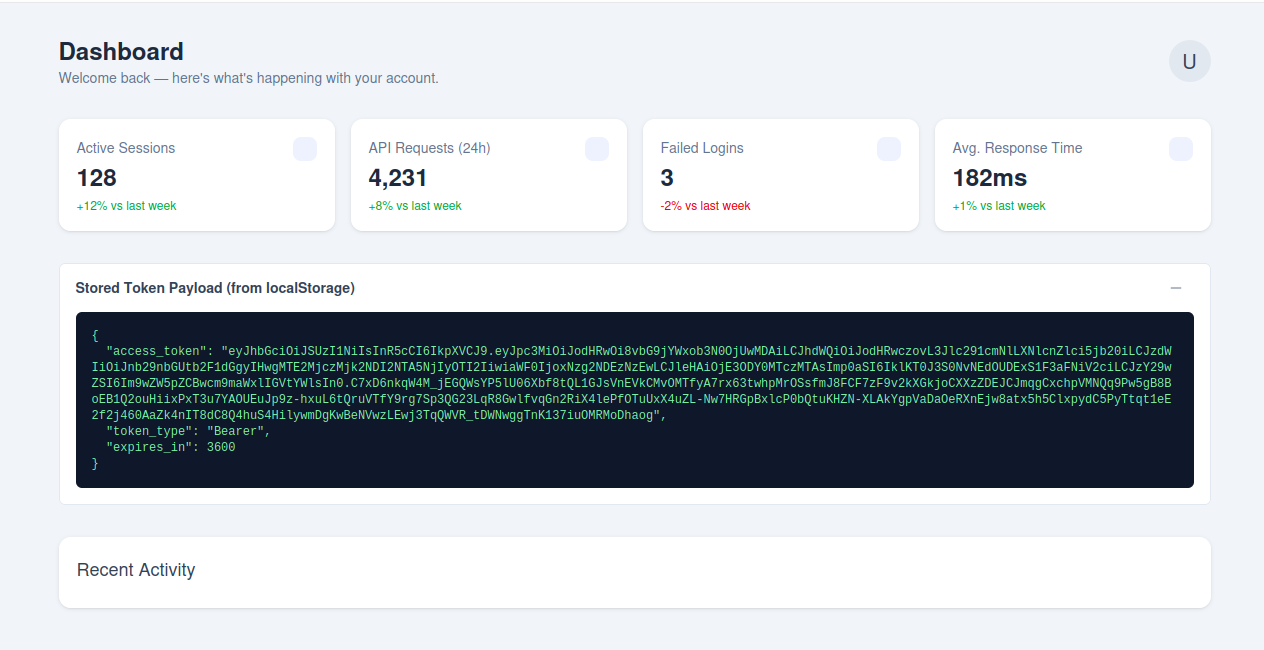
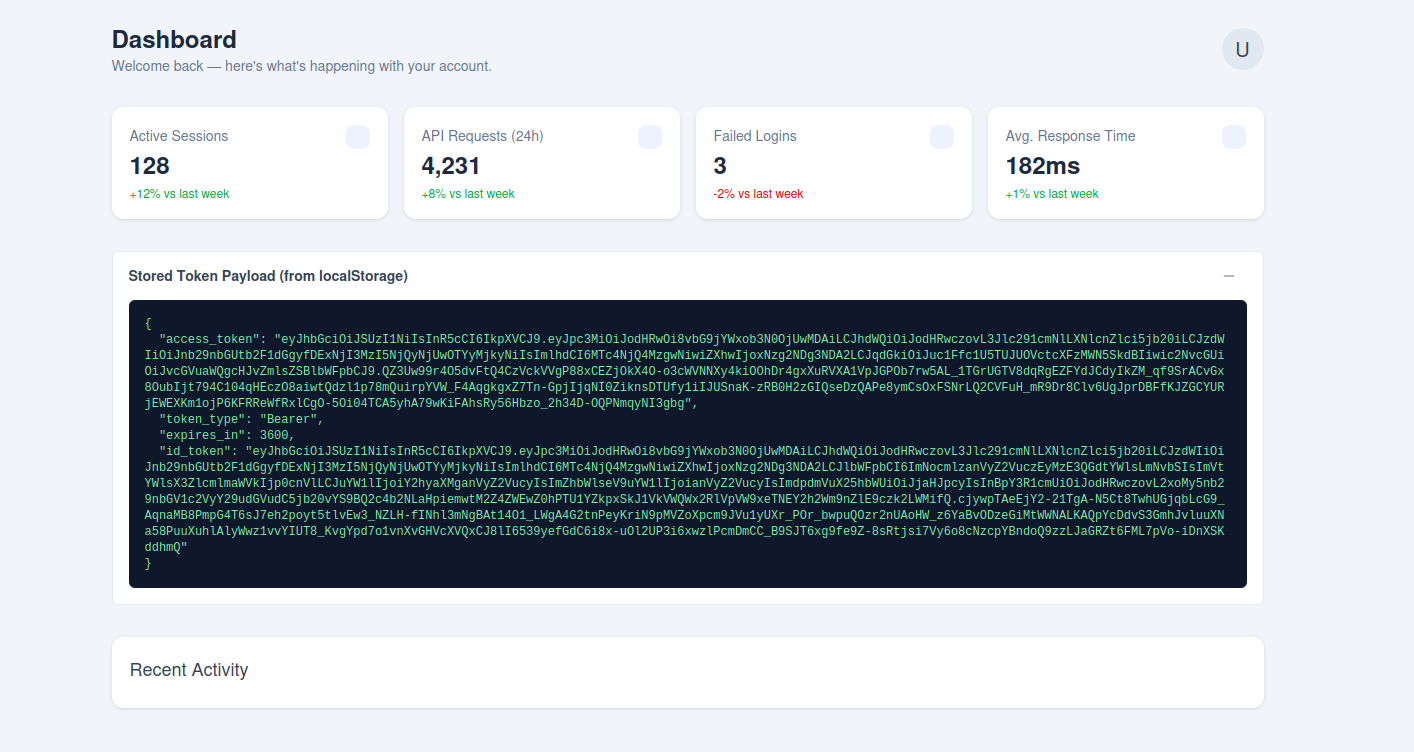
Add support for dynamic authorization url. create nonce. retrieve nonce on callback. send code_verifier. add returnTo parameter to route internally to dashboard. Display idToken. update readme

diff --git a/src/app/pages/home/home.ts b/src/app/pages/home/home.ts
@@ -1,17 +1,89 @@
-import { Component } from '@angular/core';
+import { ChangeDetectorRef, Component } from '@angular/core';
+import { FormsModule } from '@angular/forms';
+import { ButtonModule } from 'primeng/button';
+import { CardModule } from 'primeng/card';
+import { InputTextModule } from 'primeng/inputtext';
+import { SelectModule } from 'primeng/select';
 
-const AUTHORIZE_URL =
-  'http://localhost:5000/authorize?response_type=code&client_id=client_sdlkfj234kdjf2l34&redirect_uri=http%3A%2F%2Flocalhost%3A4200%2Fcallback&scope=openid%20profile%20email&state=xyz123&connection=google-oauth2&code_challenge=2fb614632cfc24212e26cdd8df1ead826e19165d280efa035933771139c7b2ef&code_challenge_method=S256&audience=https://resource-server.com';
+const AUTHORIZE_BASE_URL = 'http://localhost:5000/authorize';
+
+const STATIC_PARAMS = {
+  response_type: 'code',
+  client_id: 'client_sdlkfj234kdjf2l34',
+  redirect_uri: 'http://localhost:4200/callback',
+  code_challenge_method: 'S256'
+};
+
+const CONNECTIONS = ['google-oauth2', 'Username-Password-Authentication', 'facebook', 'github'];
+
+function randomOpaqueString(length = 32): string {
+  const bytes = new Uint8Array(length);
+  crypto.getRandomValues(bytes);
+  return Array.from(bytes, (b) => b.toString(16).padStart(2, '0')).join('');
+}
+
+function randomLetterString(length: number): string {
+  const alphabet = 'ABCDEFGHIJKLMNOPQRSTUVWXYZabcdefghijklmnopqrstuvwxyz';
+  const bytes = new Uint32Array(length);
+  crypto.getRandomValues(bytes);
+  return Array.from(bytes, (b) => alphabet[b % alphabet.length]).join('');
+}
+
+async function sha256Hex(value: string): Promise<string> {
+  const digest = await crypto.subtle.digest('SHA-256', new TextEncoder().encode(value));
+  return Array.from(new Uint8Array(digest), (b) => b.toString(16).padStart(2, '0')).join('');
+}
 
 @Component({
   selector: 'app-home',
   standalone: true,
-  imports: [],
+  imports: [FormsModule, ButtonModule, CardModule, InputTextModule, SelectModule],
   templateUrl: './home.html',
   styleUrl: './home.css'
 })
 export class Home {
+  connections = CONNECTIONS;
+
+  scope = 'openid profile email';
+  audience = 'https://resource-server.com';
+  connection = 'google-oauth2';
+  state = '';
+  codeChallenge = '';
+
+  private codeVerifier = '';
+
+  constructor(private cdr: ChangeDetectorRef) {}
+
+  get authorizeUrl(): string {
+    const params: [string, string][] = [
+      ['response_type', STATIC_PARAMS.response_type],
+      ['client_id', STATIC_PARAMS.client_id],
+      ['redirect_uri', STATIC_PARAMS.redirect_uri],
+      ['scope', this.scope],
+      ['state', this.state],
+      ['connection', this.connection],
+      ['code_challenge', this.codeChallenge],
+      ['code_challenge_method', STATIC_PARAMS.code_challenge_method],
+      ['audience', this.audience]
+    ];
+    return `${AUTHORIZE_BASE_URL}?${params.map(([key, value]) => `${key}=${encodeURIComponent(value)}`).join('&')}`;
+  }
+
+  generateState(): void {
+    this.state = randomOpaqueString();
+  }
+
+  async generateCodeChallenge(): Promise<void> {
+    const verifier = randomLetterString(10);
+    this.codeVerifier = verifier;
+    this.codeChallenge = await sha256Hex(verifier);
+    this.cdr.markForCheck();
+  }
+
   login(): void {
-    window.location.href = AUTHORIZE_URL;
+    if (this.state && this.codeVerifier) {
+      localStorage.setItem(this.state, JSON.stringify({ code_verifier: this.codeVerifier, returnTo: '/dashboard' }));
+    }
+    window.location.href = this.authorizeUrl;
   }
 }

diff --git a/src/app/pages/home/home.html b/src/app/pages/home/home.html
@@ -1,9 +1,45 @@
-<div class="flex min-h-screen items-center justify-center bg-slate-100">
-  <button
-    type="button"
-    (click)="login()"
-    class="rounded-lg bg-indigo-600 px-8 py-3 text-lg font-semibold text-white shadow-md transition hover:bg-indigo-700 active:bg-indigo-800"
-  >
-    Login
-  </button>
+<div class="min-h-screen bg-slate-100 px-6 py-10">
+  <div class="mx-auto max-w-2xl">
+    <p-card header="Authorize Request Builder" styleClass="shadow-sm">
+      <div class="flex flex-col gap-5">
+        <div class="flex flex-col gap-2">
+          <label for="scope" class="text-sm font-medium text-slate-600">scope</label>
+          <input id="scope" type="text" pInputText [(ngModel)]="scope" />
+        </div>
+
+        <div class="flex flex-col gap-2">
+          <label for="audience" class="text-sm font-medium text-slate-600">audience</label>
+          <input id="audience" type="text" pInputText [(ngModel)]="audience" />
+        </div>
+
+        <div class="flex flex-col gap-2">
+          <label for="connection" class="text-sm font-medium text-slate-600">connection</label>
+          <p-select inputId="connection" [options]="connections" [(ngModel)]="connection"></p-select>
+        </div>
+
+        <div class="flex flex-col gap-2">
+          <label for="state" class="text-sm font-medium text-slate-600">state</label>
+          <div class="flex gap-2">
+            <input id="state" type="text" pInputText class="flex-1" [(ngModel)]="state" />
+            <p-button label="Generate" severity="secondary" (onClick)="generateState()"></p-button>
+          </div>
+        </div>
+
+        <div class="flex flex-col gap-2">
+          <label for="code_challenge" class="text-sm font-medium text-slate-600">code_challenge</label>
+          <div class="flex gap-2">
+            <input id="code_challenge" type="text" pInputText class="flex-1" [(ngModel)]="codeChallenge" />
+            <p-button label="Generate" severity="secondary" (onClick)="generateCodeChallenge()"></p-button>
+          </div>
+        </div>
+
+        <div class="flex flex-col gap-2">
+          <label class="text-sm font-medium text-slate-600">AUTHORIZE_URL</label>
+          <p class="break-all rounded-md bg-slate-900 p-3 text-xs text-green-300">{{ authorizeUrl }}</p>
+        </div>
+
+        <p-button label="Login" styleClass="mt-2 w-full" (onClick)="login()"></p-button>
+      </div>
+    </p-card>
+  </div>
 </div>

diff --git a/src/app/pages/callback/callback.ts b/src/app/pages/callback/callback.ts
@@ -13,6 +13,8 @@ const TOKEN_STORAGE_KEY = 'oauth_token_response';
   styleUrl: './callback.css'
 })
 export class Callback implements OnInit {
+  error: string | null = null;
+
   constructor(
     private route: ActivatedRoute,
     private http: HttpClient,
@@ -23,19 +25,26 @@ export class Callback implements OnInit {
     const params = this.route.snapshot.queryParamMap;
     const code = params.get('code');
     const state = params.get('state');
-    const code_verifier = "liukangwins"
     const grant_type = "authorization_code"
     const client_id = "client_sdlkfj234kdjf2l34"
     const audience = "https://resource-server.com"
     const redirect_uri = "http://localhost:4200/callback"
 
-    // state is intentionally not validated — demo app, see CLAUDE.md
     console.log('Received callback with state:', state);
+
+    const nonceRaw = state ? localStorage.getItem(state) : null;
+    if (!nonceRaw) {
+      this.error = 'Invalid authorization';
+      return;
+    }
+
+    const { code_verifier, returnTo } = JSON.parse(nonceRaw);
+    localStorage.removeItem(state as string);
 
     this.http.post(TOKEN_URL, { code, code_verifier, grant_type, client_id, audience, redirect_uri }).subscribe({
       next: (response) => {
         localStorage.setItem(TOKEN_STORAGE_KEY, JSON.stringify(response));
-        this.router.navigate(['/dashboard']);
+        this.router.navigate([returnTo ?? '/']);
       },
       error: (err) => {
         console.error('Token exchange failed:', err);

diff --git a/src/app/pages/callback/callback.html b/src/app/pages/callback/callback.html
@@ -1,3 +1,7 @@
 <div class="flex min-h-screen items-center justify-center bg-slate-100">
-  <p class="text-slate-500">Signing you in&hellip;</p>
+  @if (error) {
+    <p class="text-red-600">{{ error }}</p>
+  } @else {
+    <p class="text-slate-500">Signing you in&hellip;</p>
+  }
 </div>

diff --git a/README.md b/README.md
@@ -21,10 +21,16 @@ Then open `http://localhost:4200`. This assumes the OAuth authorization server i
 
 ## Example Flow
 
-1. **Click Login** on the home page. This does a full-page redirect to the authorize endpoint (`http://localhost:5000/authorize?...`).
+1. **Generate a live authorize URL** on the home page, then click **Login** to continue authorization. This does a full-page redirect to the authorize endpoint (`http://localhost:5000/authorize?...`).
+
+   ![Authorize Request Builder generating a live authorize URL](docs/images/authorize_url.png)
+
 2. **Redirected to Google** — since the authorize request specifies `connection=google-oauth2`, the auth server hands off to Google's sign-in screen.
 3. **Sign in** with a Google account. Google redirects back to the auth server, which redirects the browser to `http://localhost:4200/callback?code=...&state=...`.
 4. The **Callback** page reads the `code` from the query params and exchanges it for a token via `POST http://localhost:5000/oauth/token`. On success, the full token response is saved to `localStorage` and the app navigates to `/dashboard`.
-5. On the **Dashboard**, copy the `access_token` value out of the "Stored Token Payload" panel and paste it into [jwt.io](https://jwt.io) to inspect the decoded claims.
+5. On the **Dashboard**, copy the `access_token` or `id_token` value out of the "Stored Token Payload" panel and paste it into [jwt.io](https://jwt.io) to inspect the decoded claims.
 
 ![Dashboard showing the stored token payload](docs/images/dashboard_success.png)
+
+You can find and run the oauth server here:
+https://github.com/cjurgens17/checkpointone-oauth-server
